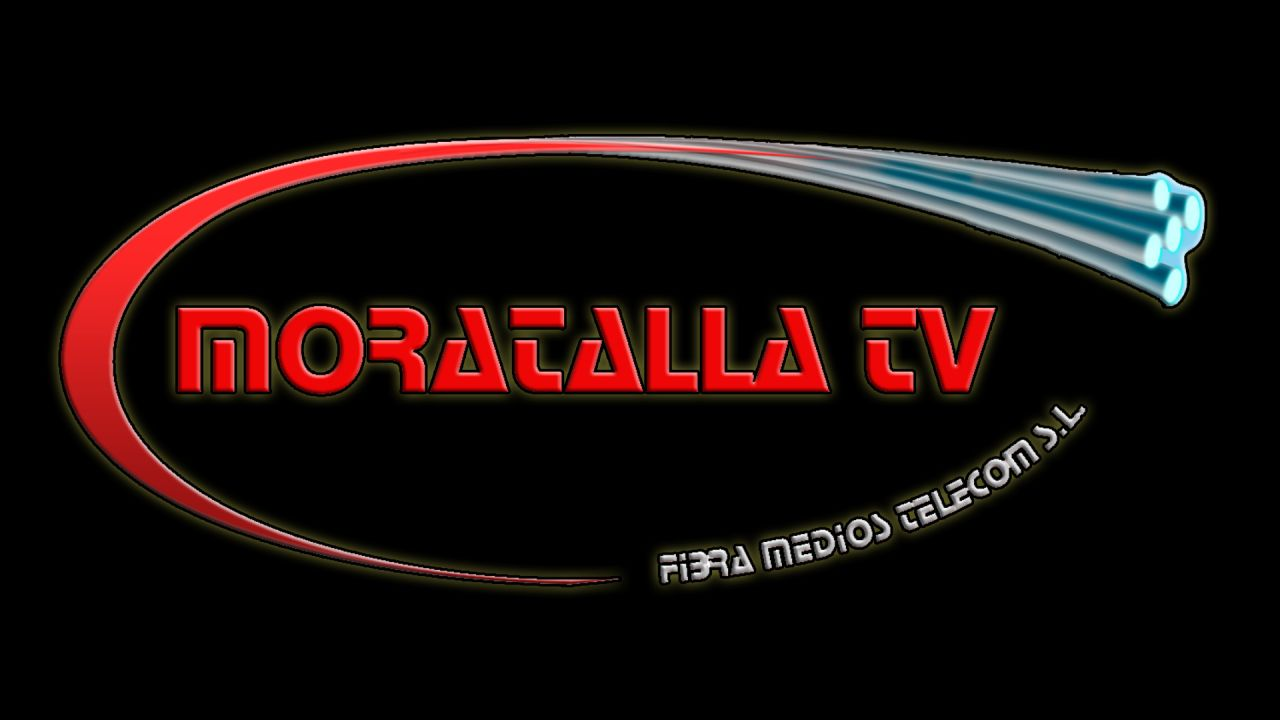
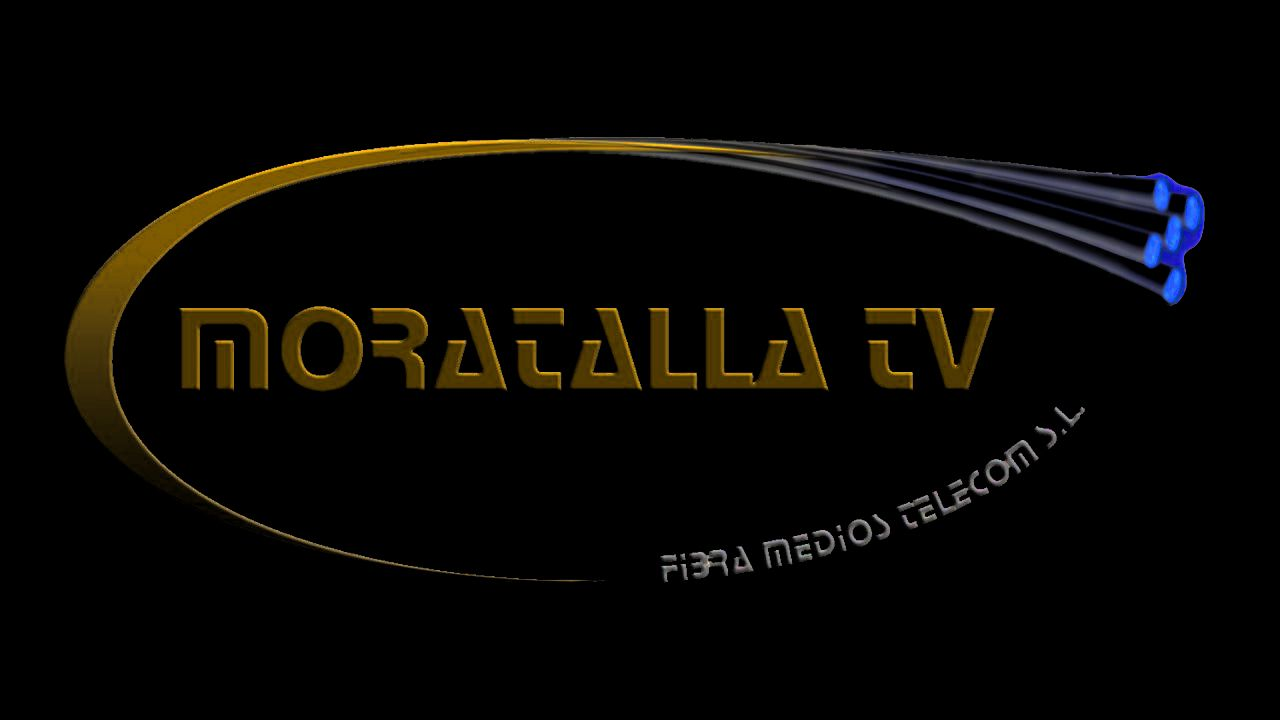
Update 09-08-2022 Principal

Changed region(s): [[0.0312, 0.1528, 0.9688, 0.825]]

diff --git a/repo/plugin.video.tvmfibraz/main.py b/repo/plugin.video.tvmfibraz/main.py
@@ -20,7 +20,7 @@ _handle = int(sys.argv[1])
 # In a "real life" plugin you will need to get info and links to video files/streams
 # from some web-site or online service.
 VIDEOS = {'Moratalla TV - FibraMedios': [{'name': 'MTV-FibraMed. en Directo',
-                       'thumb': 'https://archive.org/download/tvmfibraz_202208/TVMfibraz.jpg',
+                       'thumb': 'https://archive.org/download/morrate-logo/MorrateLogo.jpg',
                        'video': 'http://antomora.dyndns.biz:6856/cvbs',
                        'genre': 'Moratalla TV - FibraMedios'},
                      ]}
